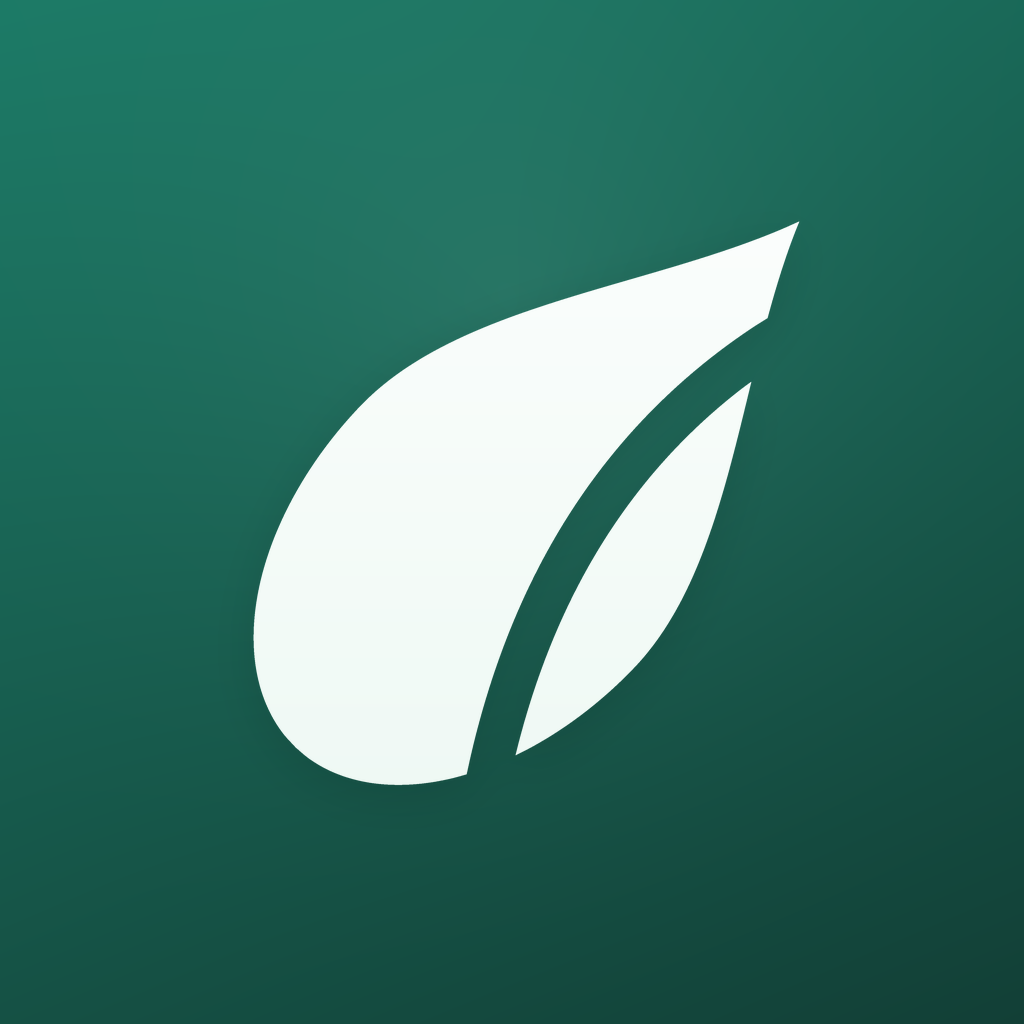
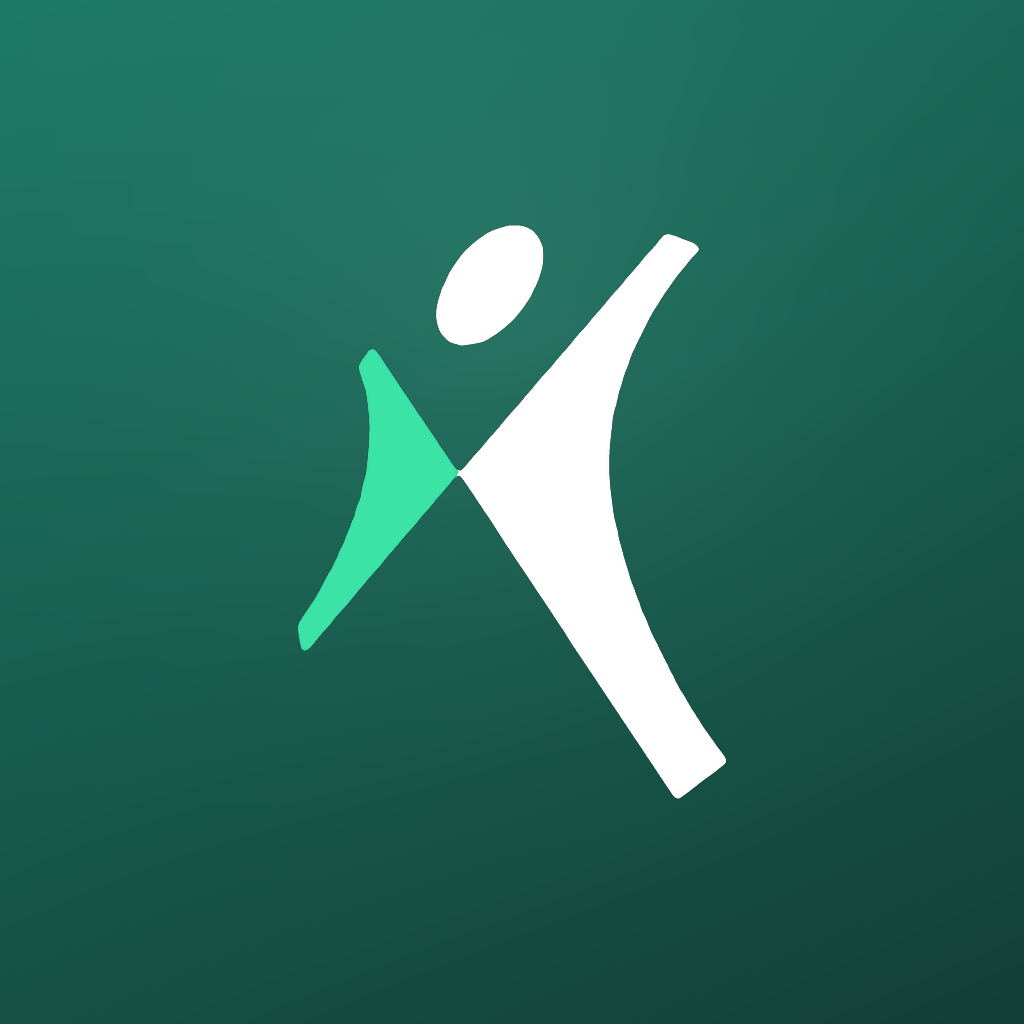
feat: rename Fitora to Fittelo and update assets
- Added new SVG logo for Fittelo.
- Updated icon.json to reference new logo.
- Changed branding in CREDITS.md and various components to reflect the new name.
- Updated images for Android and favicon.
- Modified text in multiple components to replace "Fitora" with "Fittelo".
- Updated plans data to reflect new plan names.
- Changed theme branding from Fitora to Fittelo.

Changed region(s): [[0.25, 0.2188, 0.75, 0.7812], [0.5938, 0.2188, 0.7812, 0.4375]]

diff --git a/src/components/profile/ProfileBody.tsx b/src/components/profile/ProfileBody.tsx
@@ -1,4 +1,5 @@
 import { Ionicons } from "@expo/vector-icons";
+import { Image } from "expo-image";
 import { LinearGradient } from "expo-linear-gradient";
 import { router } from "expo-router";
 import { useState, type ReactNode } from "react";
@@ -73,6 +74,8 @@ import {
 } from "./shared";
 import { LanguageSheet, RateSheet, WorkoutSettingsSheet } from "./sheets";
 
+const LOGO = require("@/assets/images/logo-mark.png");
+
 type SheetKind =
   | null
   | "diet"
@@ -101,7 +104,7 @@ const DIALOGS = {
   },
   logout: {
     icon: "👋",
-    title: "Log out of Fitora?",
+    title: "Log out of Fittelo?",
     text: "You can log back in anytime with your email, Google or Apple account. Your data stays on this device.",
     confirm: "Log out",
     danger: true,
@@ -230,7 +233,7 @@ export function ProfileBody({ mode }: { mode: "tab" | "stack" }) {
             <>
               <Avatar name={p.name} premium={!!premium} size={38} />
               <TabHeaderText
-                title={p.name || "Fitora member"}
+                title={p.name || "Fittelo member"}
                 sub={premium ? `Premium · valid till ${planTill}` : "Free plan"}
               />
             </>
@@ -272,7 +275,7 @@ export function ProfileBody({ mode }: { mode: "tab" | "stack" }) {
                 <View style={{ flex: 1 }}>
                   <Text style={st.hello}>Hello,</Text>
                   <Text style={st.name} numberOfLines={1}>
-                    {p.name || "Fitora member"}
+                    {p.name || "Fittelo member"}
                   </Text>
                   {!!p.phone && (
                     <Text style={st.phone}>{fmtPhone(p.phone)}</Text>
@@ -551,12 +554,12 @@ export function ProfileBody({ mode }: { mode: "tab" | "stack" }) {
               <View style={{ flex: 1 }}>
                 <View style={st.premEyebrow}>
                   <Ionicons name="diamond" size={12} color={C.gold} />
-                  <Text style={st.premEyebrowText}>FITORA PREMIUM</Text>
+                  <Text style={st.premEyebrowText}>FITTELO PREMIUM</Text>
                 </View>
                 {premium && tier ? (
                   <>
                     <Text style={st.premTitle}>
-                      {tier.name.replace("Fitora ", "")} ·{" "}
+                      {tier.name.replace("Fittelo ", "")} ·{" "}
                       {premium.cancelledAt ? "Cancelled" : "Active"}
                     </Text>
                     <Text style={st.premSub}>
@@ -708,7 +711,7 @@ export function ProfileBody({ mode }: { mode: "tab" | "stack" }) {
 
         {/* Support us */}
         <Animated.View entering={enter(5)}>
-          <GroupLabel title="Love Fitora?" />
+          <GroupLabel title="Love Fittelo?" />
           <Card style={shared.listCard}>
             <Row
               icon="star"
@@ -784,10 +787,10 @@ export function ProfileBody({ mode }: { mode: "tab" | "stack" }) {
           </View>
           <View style={st.footer}>
             <View style={st.footerLogo}>
-              <Ionicons name="leaf" size={13} color={C.white} />
+              <Image source={LOGO} style={{ width: 13, height: 13 }} contentFit="contain" />
             </View>
             <Text style={st.footerText}>
-              Fitora v1.0.0 · Demo build · data stored on this device
+              Fittelo v1.0.0 · Demo build · data stored on this device
             </Text>
           </View>
         </Animated.View>
@@ -877,7 +880,7 @@ export function ProfileBody({ mode }: { mode: "tab" | "stack" }) {
                 Managing diabetes, PCOS or thyroid?
               </Text>
               <Text style={st.proHintSub}>
-                Get a certified specialist with Fitora Pro
+                Get a certified specialist with Fittelo Pro
               </Text>
             </View>
             <Ionicons name="chevron-forward" size={18} color={C.gold} />

diff --git a/src/app/coach.tsx b/src/app/coach.tsx
@@ -238,7 +238,7 @@ function reply(raw: string, c: Ctx): Reply {
 
   if (has('diabetes', 'sugar', 'pcos', 'pcod', 'thyroid', 'bp', 'pressure', 'cholesterol', 'liver', 'doctor', 'nutritionist', 'coach', 'trainer', 'expert', 'human')) {
     return {
-      text: `For medical conditions, a personalised plan really matters. The basics:\n\n• Choose low-GI carbs — brown rice, ragi, jowar, oats\n• Add protein to every meal\n• Eat fibre first, carbs last\n• Limit sweets, juices and maida\n\nWith Fitora Pro, a certified specialist like Sneha Kulkarni (Diabetes Educator) builds your plan and reviews your logs every week.`,
+      text: `For medical conditions, a personalised plan really matters. The basics:\n\n• Choose low-GI carbs — brown rice, ragi, jowar, oats\n• Add protein to every meal\n• Eat fibre first, carbs last\n• Limit sweets, juices and maida\n\nWith Fittelo Pro, a certified specialist like Sneha Kulkarni (Diabetes Educator) builds your plan and reviews your logs every week.`,
       action: { label: 'See Pro plans', icon: 'diamond', href: '/plans?tier=pro' },
     };
   }
@@ -270,8 +270,8 @@ function reply(raw: string, c: Ctx): Reply {
   if (has('premium', 'plan', 'price', 'subscription', 'upgrade', 'smart') || /\bpro\b/.test(q)) {
     return {
       text: c.premium
-        ? `You're already on Fitora ${c.premium.tier === 'pro' ? 'Pro' : 'Smart'} — enjoy unlimited chats with me!`
-        : `Fitora Smart starts at ₹1,799 for 3 months and unlocks unlimited Saathi chats, Snap scans and personalised plans. Pro adds your own nutritionist and trainer.`,
+        ? `You're already on Fittelo ${c.premium.tier === 'pro' ? 'Pro' : 'Smart'} — enjoy unlimited chats with me!`
+        : `Fittelo Smart starts at ₹1,799 for 3 months and unlocks unlimited Saathi chats, Snap scans and personalised plans. Pro adds your own nutritionist and trainer.`,
       action: { label: 'See plans', icon: 'diamond', href: '/plans' },
     };
   }
@@ -284,7 +284,7 @@ function reply(raw: string, c: Ctx): Reply {
   }
 
   return {
-    text: `Hmm, I'm still learning about that one\n\nI can help with your calories, meals, high-protein snacks, workouts, water and weight goal. For anything medical, a Fitora Pro nutritionist is the best person to ask.`,
+    text: `Hmm, I'm still learning about that one\n\nI can help with your calories, meals, high-protein snacks, workouts, water and weight goal. For anything medical, a Fittelo Pro nutritionist is the best person to ask.`,
     action: { label: 'Talk to a human coach', icon: 'people', href: '/plans?tier=pro' },
   };
 }
@@ -407,7 +407,7 @@ export default function CoachScreen() {
             <Ionicons name="diamond" size={12} color={C.gold} />
           </View>
           <Text style={st.upsellText} numberOfLines={1}>
-            Free preview · Unlimited Saathi with Fitora Smart
+            Free preview · Unlimited Saathi with Fittelo Smart
           </Text>
           <Text style={st.upsellCta}>Upgrade</Text>
         </PressableScale>

diff --git a/src/app/plans.tsx b/src/app/plans.tsx
@@ -121,7 +121,7 @@ export default function PlansScreen() {
               </View>
             </Animated.View>
             <Animated.View entering={enter(1)}>
-              <Text style={st.heroTitle}>Fitora Premium</Text>
+              <Text style={st.heroTitle}>Fittelo Premium</Text>
               <Text style={st.heroSub}>Reach your goal faster with Saathi AI and real Indian nutrition experts.</Text>
               <View style={st.proof}>
                 <View style={st.stars}>
@@ -150,7 +150,7 @@ export default function PlansScreen() {
                       <Ionicons name={premium.tier === 'pro' ? 'diamond' : 'sparkles'} size={18} color={C.navy} />
                     </LinearGradient>
                     <View style={{ flex: 1 }}>
-                      <Text style={T.h3}>{`You're on Fitora ${premium.tier === 'pro' ? 'Pro' : 'Smart'}`}</Text>
+                      <Text style={T.h3}>{`You're on Fittelo ${premium.tier === 'pro' ? 'Pro' : 'Smart'}`}</Text>
                       <Text style={T.small}>
                         {premium.cancelledAt
                           ? `Cancelled · active till ${fmtFull(planEnd(premium.since, premium.months))}`
@@ -359,7 +359,7 @@ export default function PlansScreen() {
       <Dialog
         visible={askCancel}
         icon="😢"
-        title={`Cancel Fitora ${premium?.tier === 'pro' ? 'Pro' : 'Smart'}?`}
+        title={`Cancel Fittelo ${premium?.tier === 'pro' ? 'Pro' : 'Smart'}?`}
         text={`You keep premium until ${premium ? fmtFull(planEnd(premium.since, premium.months)) : 'your plan ends'}, then lose Saathi's unlimited chats and personalised plans. This is a demo, so nothing is charged or refunded.`}
         confirm="Cancel plan"
         cancel="Keep plan"

diff --git a/src/components/profile/shared.tsx b/src/components/profile/shared.tsx
@@ -1,4 +1,5 @@
 import { Ionicons } from '@expo/vector-icons';
+import { Image } from 'expo-image';
 import { LinearGradient } from 'expo-linear-gradient';
 import { router } from 'expo-router';
 import React, { useEffect, useState } from 'react';
@@ -11,6 +12,8 @@ import type { PlanTier } from '@/data/plans';
 import { parseKey, round1, targets as calcTargets } from '@/lib/calc';
 import { useStore, type Goal, type Profile, type Settings } from '@/lib/store';
 import { BRAND, C, G, MOTION, R } from '@/theme';
+
+const LOGO = require('@/assets/images/logo-mark.png');
 
 export type Targets = ReturnType<typeof calcTargets>;
 export type Units = Settings['units'];
@@ -292,7 +295,7 @@ export function ConnectedAppsCard() {
         visible={ask}
         icon="❤"
         title={`“${BRAND}” would like to access ${HEALTH_APP}`}
-        text="Allow Fitora to read your steps, workouts, sleep and weight, and to write your nutrition data."
+        text="Allow Fittelo to read your steps, workouts, sleep and weight, and to write your nutrition data."
         confirm="Allow"
         cancel="Don't allow"
         onCancel={() => setAsk(false)}
@@ -395,7 +398,7 @@ export function AboutSheet({ visible, onClose }: { visible: boolean; onClose: ()
     <Sheet visible={visible} onClose={onClose} title="About & Privacy" scroll>
       <View style={st.aboutHead}>
         <LinearGradient colors={G.brand} start={{ x: 0, y: 0 }} end={{ x: 1, y: 1 }} style={st.logo}>
-          <Ionicons name="leaf" size={28} color={C.white} />
+          <Image source={LOGO} style={{ width: 28, height: 28 }} contentFit="contain" />
         </LinearGradient>
         <View style={{ flex: 1, gap: 4 }}>
           <Text style={T.h3}>{BRAND}</Text>

diff --git a/src/app/settings.tsx b/src/app/settings.tsx
@@ -1,4 +1,4 @@
-import { Ionicons } from '@expo/vector-icons';
+import { Image } from 'expo-image';
 import { router } from 'expo-router';
 import { useState } from 'react';
 import { ScrollView, StyleSheet, Text, View } from 'react-native';
@@ -11,13 +11,15 @@ import { NOTIFICATIONS } from '@/data/notifications';
 import { isPremiumActive, useStore } from '@/lib/store';
 import { C } from '@/theme';
 
+const LOGO = require('@/assets/images/logo-mark.png');
+
 export default function SettingsScreen() {
   const { state, updateProfile } = useStore();
   const toast = useToast();
   const [sheet, setSheet] = useState<null | 'help' | 'about' | 'workout' | 'language'>(null);
   const unread = NOTIFICATIONS.filter((n) => !state.readNotifs.includes(n.id)).length;
   const premium = isPremiumActive(state.premium) ? state.premium : null;
-  const planName = premium ? `Fitora ${premium.tier === 'pro' ? 'Pro' : 'Smart'}` : '';
+  const planName = premium ? `Fittelo ${premium.tier === 'pro' ? 'Pro' : 'Smart'}` : '';
   const push = state.profile.notifications;
   const setPush = (v: boolean) => {
     updateProfile({ notifications: v });
@@ -109,9 +111,9 @@ export default function SettingsScreen() {
           </Card>
           <View style={st.footer}>
             <View style={st.footerLogo}>
-              <Ionicons name="leaf" size={13} color={C.white} />
+              <Image source={LOGO} style={{ width: 13, height: 13 }} contentFit="contain" />
             </View>
-            <Text style={st.footerText}>Fitora v1.0.0 · Demo build</Text>
+            <Text style={st.footerText}>Fittelo v1.0.0 · Demo build</Text>
           </View>
         </Animated.View>
       </ScrollView>

diff --git a/src/components/AccountSheet.tsx b/src/components/AccountSheet.tsx
@@ -19,20 +19,20 @@ const slug = (name: string) =>
     .replace(/[^a-z\s]/g, '')
     .split(/\s+/)
     .filter(Boolean)
-    .join('.') || 'fitora.user';
+    .join('.') || 'fittelo.user';
 
 /** Demo accounts offered by each provider; the first one is built from the user's own name. */
 export function demoAccounts(provider: Provider, name: string): Account[] {
-  const me = name.trim() || 'Fitora User';
+  const me = name.trim() || 'Fittelo User';
   return provider === 'google'
     ? [
         { name: me, email: `${slug(me)}@gmail.com`, plan: null },
-        { name: 'Demo User', email: 'demo.fitora@gmail.com', plan: 'smart' },
+        { name: 'Demo User', email: 'demo.fittelo@gmail.com', plan: 'smart' },
         { name: 'Fitness Team', email: 'fitness.team.in@gmail.com', plan: 'pro' },
       ]
     : [
         { name: me, email: `${slug(me)}@icloud.com`, plan: null },
-        { name: 'Demo User', email: 'demo.fitora@icloud.com', plan: 'smart' },
+        { name: 'Demo User', email: 'demo.fittelo@icloud.com', plan: 'smart' },
         // Apple's "Hide My Email" hands the app a private relay address instead.
         { name: me, email: 'x7k2p9qd4m@privaterelay.appleid.com', plan: 'pro' },
       ];

diff --git a/src/data/notifications.ts b/src/data/notifications.ts
@@ -6,5 +6,5 @@ export const NOTIFICATIONS: Notif[] = [
   { id: 'n3', icon: '✨', title: 'Saathi has a tip for you', body: 'Swap your evening samosa for roasted makhana and save ~170 kcal.', time: 'Yesterday', route: '/coach' },
   { id: 'n4', icon: '🏆', title: 'New streak: 3 days!', body: 'You logged all your meals 3 days in a row. Keep it going.', time: 'Yesterday', route: '/diary' },
   { id: 'n5', icon: '⚖', title: 'Weekly weigh-in', body: 'It has been 7 days since your last weigh-in. Log your weight.', time: '2 days ago', route: '/progress' },
-  { id: 'n6', icon: '👑', title: 'Fitora Pro: 40% off', body: 'Get a personal nutritionist and trainer. Offer ends Sunday.', time: '3 days ago', route: '/plans' },
+  { id: 'n6', icon: '👑', title: 'Fittelo Pro: 40% off', body: 'Get a personal nutritionist and trainer. Offer ends Sunday.', time: '3 days ago', route: '/plans' },
 ];

diff --git a/src/components/onboarding/Benefits.tsx b/src/components/onboarding/Benefits.tsx
@@ -9,7 +9,7 @@ import { IMG } from '@/components/onboarding/assets';
 import { nativeOnly, type IconName } from '@/components/ui';
 import { BRAND, C, G, MOTION, R, glow, shadowSm } from '@/theme';
 
-/** Fitora vs typical apps, one row per thing the plan is built from. */
+/** Fittelo vs typical apps, one row per thing the plan is built from. */
 const ROWS: { icon: IconName; label: string }[] = [
   { icon: 'person-circle-outline', label: 'Plan built from your answers' },
   { icon: 'barbell-outline', label: 'Workouts matched to your level' },
@@ -57,7 +57,7 @@ export function BenefitsHero({ male }: { male: boolean }) {
   );
 }
 
-/** Two-column comparison: Fitora ticks every row, typical apps none. */
+/** Two-column comparison: Fittelo ticks every row, typical apps none. */
 export function CompareTable() {
   return (
     <View style={s.table}>

diff --git a/src/app/streak.tsx b/src/app/streak.tsx
@@ -185,7 +185,7 @@ export default function StreakScreen() {
         <View style={s.sheetHero}>
           <IconTile icon="gift" color={C.white} bg={C.accent} size={44} />
           <Text style={[T.body, { flex: 1 }]}>
-            Work out for <Text style={{ fontWeight: '700', color: C.text }}>7 days</Text> to unlock <Text style={{ fontWeight: '700', color: C.accent }}>50% off Fitora Premium</Text> — personal coach, custom meal plans and every training program.
+            Work out for <Text style={{ fontWeight: '700', color: C.text }}>7 days</Text> to unlock <Text style={{ fontWeight: '700', color: C.accent }}>50% off Fittelo Premium</Text> — personal coach, custom meal plans and every training program.
           </Text>
         </View>
         <View style={{ marginTop: 16, gap: 10 }}>

diff --git a/src/app/(tabs)/index.tsx b/src/app/(tabs)/index.tsx
@@ -607,7 +607,7 @@ export default function Home() {
               <View style={{ flex: 1 }}>
                 <View style={{ flexDirection: 'row', alignItems: 'center', gap: 6 }}>
                   <Ionicons name="diamond" size={12} color={C.gold} />
-                  <Text style={st.premiumLabel}>{premiumTier ? 'ACTIVE PLAN' : 'FITORA PRO'}</Text>
+                  <Text style={st.premiumLabel}>{premiumTier ? 'ACTIVE PLAN' : 'FITTELO PRO'}</Text>
                 </View>
                 <Text style={st.premiumTitle}>{premiumTier ? `You're on ${premiumTier.name}` : 'Get a personal nutritionist & trainer'}</Text>
                 <Text style={st.premiumSub}>{premiumTier ? 'Ask your coach anything, anytime' : 'Custom plans · weekly check-ins · up to 40% off'}</Text>

diff --git a/src/components/AnimatedSplash.tsx b/src/components/AnimatedSplash.tsx
@@ -41,7 +41,7 @@ function Letter({ ch, i, p }: { ch: string; i: number; p: SharedValue<number> })
 
 /**
  * Continues the native splash seamlessly (same colour, icon and size), then animates:
- * the leaf pops with a glow ring, lifts up, the app name rises in letter by letter and the tagline fades in.
+ * the logo mark pops with a glow ring, lifts up, the app name rises in letter by letter and the tagline fades in.
  * Leaves with a fade + gentle zoom once the intro has played and the app is `ready`; `onReveal` fires as it starts leaving.
  */
 export function AnimatedSplash({ ready, onReveal, onDone }: { ready: boolean; /** Exit is starting: mount the app underneath now so its entrance plays as the splash fades. */ onReveal: () => void; onDone: () => void }) {

diff --git a/src/components/profile/sheets.tsx b/src/components/profile/sheets.tsx
@@ -119,7 +119,7 @@ export function RateSheet({ visible, onClose }: SheetProps) {
       <View style={st.rateHead}>
         <IconTile icon="star" color={C.warning} bg={C.warningSoft} size={56} />
         <Text style={[T.body, { textAlign: 'center', marginTop: 12 }]}>
-          {rated ? `Thanks for rating us ${rated} star${rated === 1 ? '' : 's'}! You can change it anytime.` : 'Enjoying Fitora? Your rating helps more people find us.'}
+          {rated ? `Thanks for rating us ${rated} star${rated === 1 ? '' : 's'}! You can change it anytime.` : 'Enjoying Fittelo? Your rating helps more people find us.'}
         </Text>
       </View>
       <View style={st.stars}>
